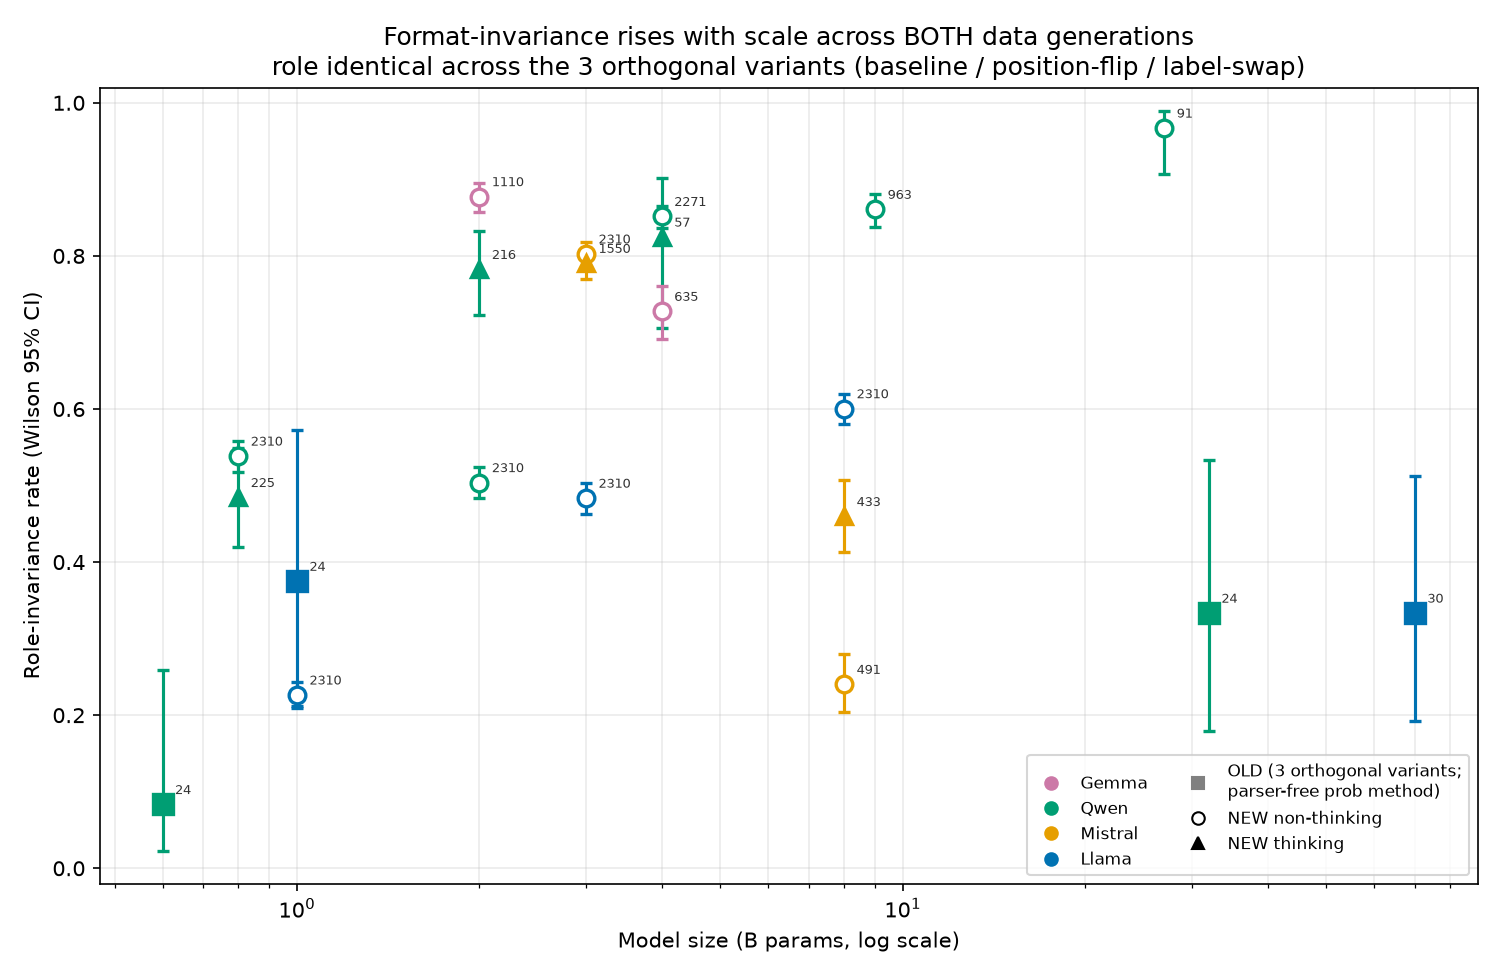
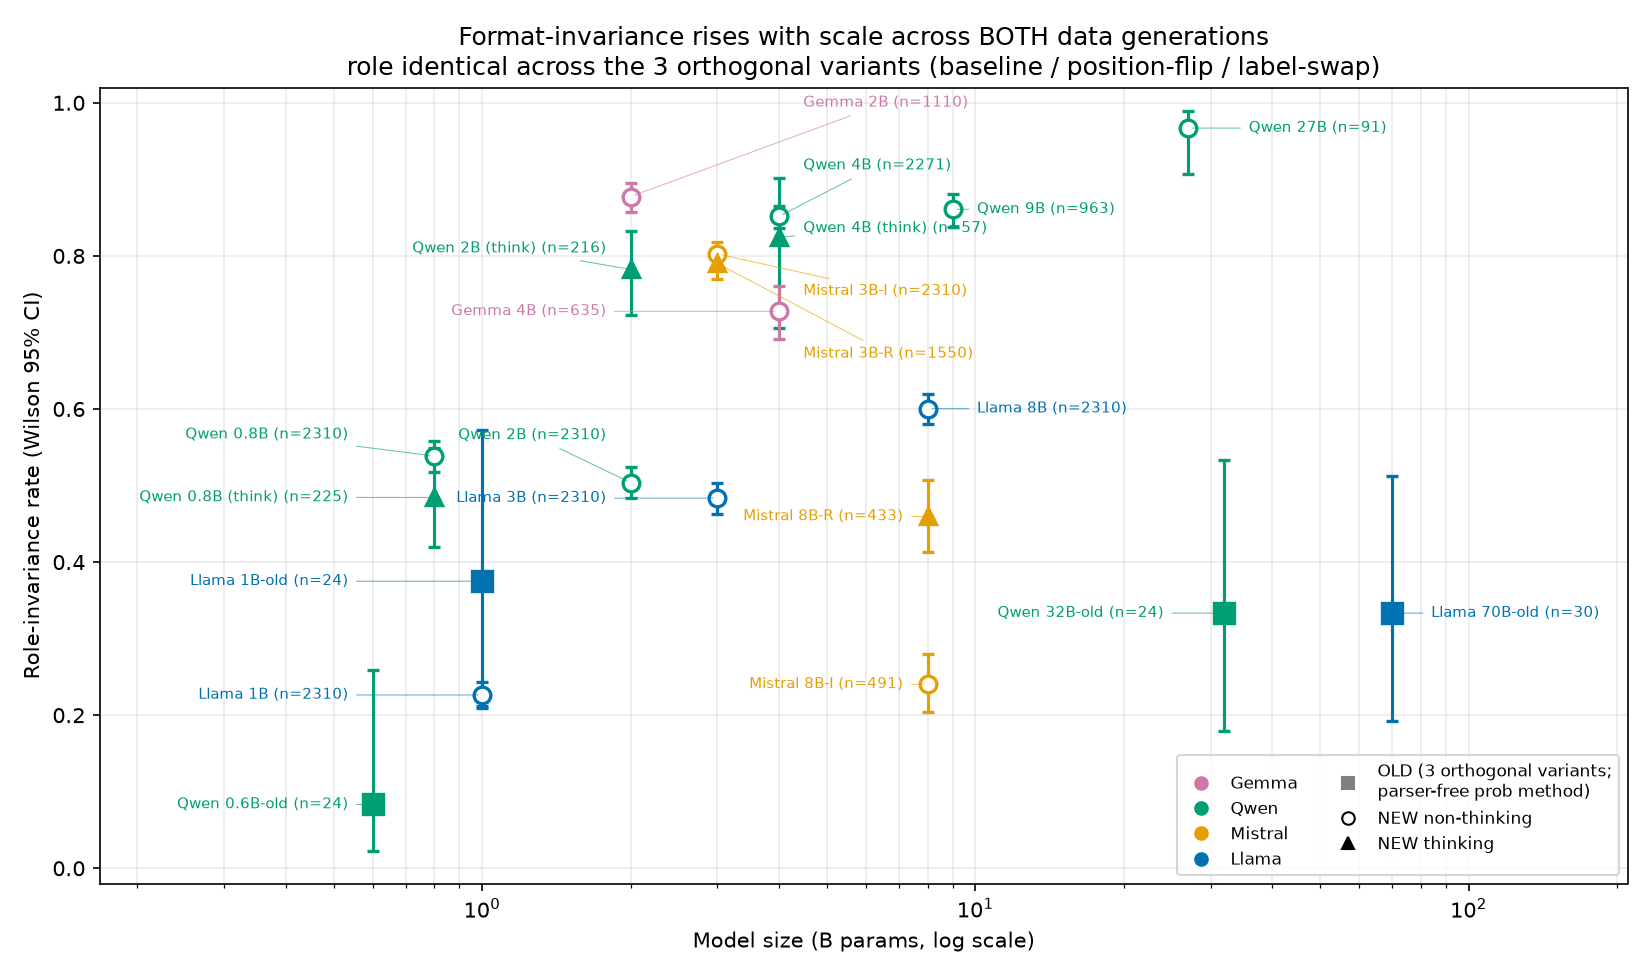
stability: label EACH model explicitly on combined invariance figure
Annotate every point with its model name + n (was n only), reusing
spread_labels for left/right per-cluster de-collision with leader lines.

diff --git a/experiment/stability/combined_invariance_figure.py b/experiment/stability/combined_invariance_figure.py
@@ -1,22 +1,22 @@
 """ONE format-invariance figure spanning BOTH data generations: the OLD stability study
-(`data/hf_old/sesgo/stability/<model>`, 4 models) and the NEW greedy-readout sweep
-(`out/stability/<dir>`, 17 models), plotted together as role-invariance rate vs model size.
+(`data/hf_old/sesgo/stability/<model>`) and the NEW greedy-readout sweep (`out/stability/<dir>`),
+as role-invariance rate vs model size.
 
-Role-invariance = fraction of base ITEMS whose committed role is identical across the SAME
-3 orthogonal variants (baseline / position-flip / label-swap), so the two generations are
-apples-to-apples. The OLD data stores 36 variants/qid (6 orderings x 3 label styles x 2
-replicates); we extract exactly the 3 orthogonal combos and pair them by replicate index
-within each (qid, ordering, style) combo so each item carries one baseline/flip/swap choice
-(verified: e.g. Qwen3-32B 24 items, Llama-3.1-70B 30 items). OLD choices are parser-free
-(argmax of `non_thinking.prob` mapped through reconstructed position_labels); NEW choices are
-the committed greedy-readout `choice`. OLD = filled SQUARE, NEW = open circle / filled triangle
-(thinking), family-coloured, Wilson 95% CI, n annotated.
+Role-invariance = fraction of base ITEMS whose committed role is identical across the SAME 3
+orthogonal variants (baseline / position-flip / label-swap), so the generations are apples-to-
+apples. OLD stores 36 variants/qid; we take the 3 orthogonal combos and pair them by replicate
+index within each (qid, ordering, style) so each item carries one baseline/flip/swap choice. OLD
+choices are parser-free (argmax of `non_thinking.prob`); NEW are the committed greedy-readout
+`choice`. OLD = filled SQUARE, NEW = open circle / filled triangle (thinking), family-coloured,
+Wilson 95% CI; EVERY point carries an explicit model label (name + n), de-collided by
+`spread_labels` with a thin leader line.
 """
 
 from __future__ import annotations
 
 import argparse
 import json
+import math
 from collections import defaultdict
 from pathlib import Path
 
@@ -27,6 +27,7 @@ from experiment.baseline.reparse_old_thinking_labels import (
     option_labels_from_style,
     position_labels_from_prompt,
 )
+from experiment.bias.segment_label_layout import spread_labels
 from experiment.bias.stability_readout_join import load_metadata
 from experiment.common.sweep_models import FAMILY_COLOR, parse_model
 from experiment.stability.new_sweep_baseline_stability_figures import _VARIANT, _invariance
@@ -44,11 +45,9 @@ def _old_choice(s: dict) -> tuple[str, tuple]:
 
 
 def old_invariance(model_dir: Path) -> dict:
-    """Same 3-orthogonal-variant role-invariance as the NEW sweep, on OLD data.
-
-    Item = (question_id, replicate-index): the replicate index disambiguates the two draws
-    per (qid, ordering, style) combo so every item gets exactly one baseline/flip/swap choice.
-    """
+    """Same 3-orthogonal-variant role-invariance as the NEW sweep, on OLD data. Item =
+    (question_id, replicate-index): the replicate index disambiguates the two draws per
+    (qid, ordering, style) combo so every item gets exactly one baseline/flip/swap choice."""
     samples = json.load((model_dir / "response_samples.json").open())["samples"]
     seen: dict = defaultdict(int)
     items: dict = defaultdict(dict)
@@ -70,27 +69,70 @@ def _new_invariance(slice_dir: Path, meta: dict) -> dict:
     return _invariance(samples, meta)
 
 
+def _legend_marker(**kw):
+    return plt.Line2D([], [], ls="", **kw)  # shared zero-length marker for the manual legend
+
+
 def _plot_point(ax, size, succ, n, color, marker, ms):
     p, lo, hi = wilson_interval(succ, n)
     mfc = "white" if marker == "o" else color
     ax.errorbar(size, p, yerr=[[p - lo], [hi - p]], fmt=marker, color=color, mfc=mfc,
                 mec=color, ms=ms, capsize=3, mew=1.6, zorder=3)
-    ax.annotate(f"{n}", (size, p), textcoords="offset points", xytext=(6, 5), fontsize=6, alpha=0.8)
     return p
+
+
+def _draw_side(ax, group: list[tuple], x_text: float, ha: str) -> None:
+    """De-collide one side's labels in y (via `spread_labels`) and draw them with leaders."""
+    slots = spread_labels([g[1] for g in group], 0.082, 1.0)
+    for (x, y, text, color), slot in zip(group, slots):
+        ax.annotate(text, (x, y), xytext=(x_text, slot.y_label),
+                    textcoords="data", fontsize=7, color=color, va="center", ha=ha, zorder=4,
+                    arrowprops=dict(arrowstyle="-", color=color, lw=0.5, alpha=0.6))
+
+
+def _label_points(ax, pts: list[tuple]) -> None:
+    """Draw an explicit model label (name + n) beside every point, de-colliding in y.
+
+    Points are greedily clustered along x (a >0.18-decade gap starts a new cluster) so only
+    near-overlapping markers compete for space; each cluster's labels are split left/right
+    (the leftmost cluster spills fully into the empty left margin) and `spread_labels` (reused
+    from the bias figure) pushes each side apart in y with a thin family-coloured leader line.
+    """
+    clusters: list[list[tuple]] = []
+    for p in sorted(pts, key=lambda g: g[0]):
+        if clusters and math.log10(p[0]) - math.log10(clusters[-1][-1][0]) <= 0.18:
+            clusters[-1].append(p)
+        else:
+            clusters.append([p])
+    for ci, group in enumerate(clusters):
+        group.sort(key=lambda g: g[1])
+        xmin, xmax = min(g[0] for g in group), max(g[0] for g in group)
+        if ci == 0:  # leftmost cluster: send ALL labels into the empty left margin (no neighbour)
+            _draw_side(ax, group, xmin / 1.12, "right")
+        elif len(group) >= 2:  # split: lower-y labels hug the left edge, upper-y the right edge
+            mid = len(group) // 2
+            _draw_side(ax, group[:mid], xmin / 1.12, "right")
+            _draw_side(ax, group[mid:], xmax * 1.12, "left")
+        else:
+            _draw_side(ax, group, xmax * 1.2, "left")
 
 
 def build(new_dir: Path, dataset: Path, old_root: Path, out: Path) -> None:
     meta = load_metadata(dataset)
-    fig, ax = plt.subplots(figsize=(10, 6.5))
+    fig, ax = plt.subplots(figsize=(11, 6.5))
     rows: list[tuple] = []
+    labels: list[tuple] = []  # (x, y, "name (n=..)", color) per point, for de-collided labelling
 
     # OLD models: filled squares.
     old_models = sorted(d.name for d in old_root.iterdir()
                         if (d / "response_samples.json").is_file())
     for name in old_models:
         fam, size = model_meta(name)
+        color = FAMILY_COLOR.get(fam, "gray")
         iv = old_invariance(old_root / name)
-        p = _plot_point(ax, size, iv["inv"], iv["n"], FAMILY_COLOR.get(fam, "gray"), "s", 10)
+        p = _plot_point(ax, size, iv["inv"], iv["n"], color, "s", 10)
+        # Square marker conveys generation; `-old` tag keeps the name unambiguous next to NEW.
+        labels.append((size, p, f"{fam} {size:g}B-old (n={iv['n']})", color))
         rows.append(("OLD", name, fam, size, iv["n"], iv["inv"], p))
 
     # NEW sweep: open circle (non-thinking) / filled triangle (thinking).
@@ -105,31 +147,33 @@ def build(new_dir: Path, dataset: Path, old_root: Path, out: Path) -> None:
         if not iv["n"]:
             continue
         marker = "^" if sm.mode == "thinking" else "o"
-        p = _plot_point(ax, sm.size_b, iv["inv"], iv["n"], FAMILY_COLOR[sm.family], marker, 8)
+        color = FAMILY_COLOR[sm.family]
+        p = _plot_point(ax, sm.size_b, iv["inv"], iv["n"], color, marker, 8)
+        labels.append((sm.size_b, p, f"{sm.name} (n={iv['n']})", color))
         rows.append(("NEW", sm.name, sm.family, sm.size_b, iv["n"], iv["inv"], p))
 
+    _label_points(ax, labels)
     ax.set_xscale("log"); ax.set_ylim(-0.02, 1.02); ax.grid(True, which="both", alpha=0.25)
+    xs = [l[0] for l in labels]
+    ax.set_xlim(min(xs) * 0.28, max(xs) * 3.0)  # headroom so left/right offset labels aren't clipped
     ax.set_xlabel("Model size (B params, log scale)")
     ax.set_ylabel("Role-invariance rate (Wilson 95% CI)")
     ax.set_title("Format-invariance rises with scale across BOTH data generations\n"
                  "role identical across the 3 orthogonal variants (baseline / position-flip / label-swap)")
 
     fams = sorted({r[2] for r in rows}, key=lambda f: list(FAMILY_COLOR).index(f) if f in FAMILY_COLOR else 9)
-    handles = [plt.Line2D([], [], marker="o", ls="", color=FAMILY_COLOR[f], label=f) for f in fams]
-    handles += [
-        plt.Line2D([], [], marker="s", ls="", mfc="gray", mec="gray", color="gray",
-                   label="OLD (3 orthogonal variants;\nparser-free prob method)"),
-        plt.Line2D([], [], marker="o", ls="", mfc="white", mec="k", label="NEW non-thinking"),
-        plt.Line2D([], [], marker="^", ls="", color="k", label="NEW thinking"),
-    ]
+    handles = [_legend_marker(marker="o", color=FAMILY_COLOR[f], label=f) for f in fams]
+    handles += [_legend_marker(marker="s", mfc="gray", mec="gray", color="gray",
+                               label="OLD (3 orthogonal variants;\nparser-free prob method)"),
+                _legend_marker(marker="o", mfc="white", mec="k", label="NEW non-thinking"),
+                _legend_marker(marker="^", color="k", label="NEW thinking")]
     ax.legend(handles=handles, fontsize=8, loc="lower right", ncol=2)
     fig.tight_layout()
     out.parent.mkdir(parents=True, exist_ok=True)
     fig.savefig(out, dpi=150)
 
-    print(f"\n{'gen':4s} {'model':18s} {'fam':8s} {'size':>6s} {'n':>5s} {'inv':>5s} {'rate':>6s}")
     for gen, name, fam, size, n, inv, p in sorted(rows, key=lambda r: (r[0], r[3])):
-        print(f"{gen:4s} {name:18s} {fam:8s} {size:6g} {n:5d} {inv:5d} {p:6.3f}")
+        print(f"{gen:4s} {name:22s} {fam:8s} {size:6g}  n={n:5d}  inv={inv:5d}  rate={p:6.3f}")
     print(f"\nWrote {out}")
 
 